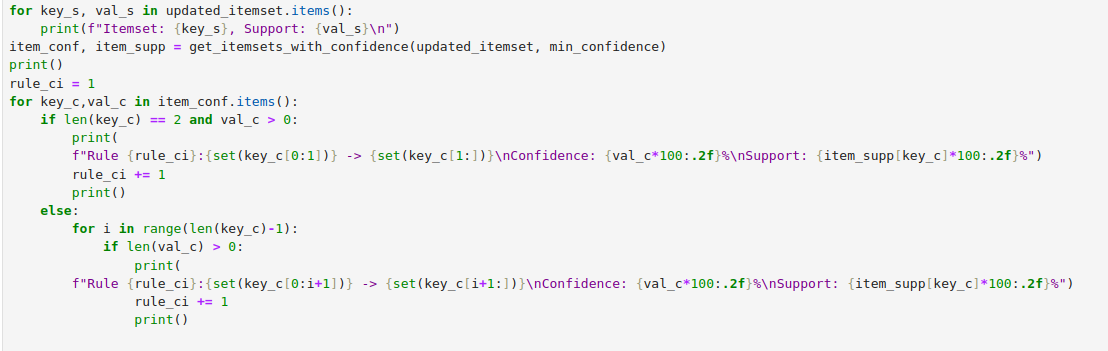
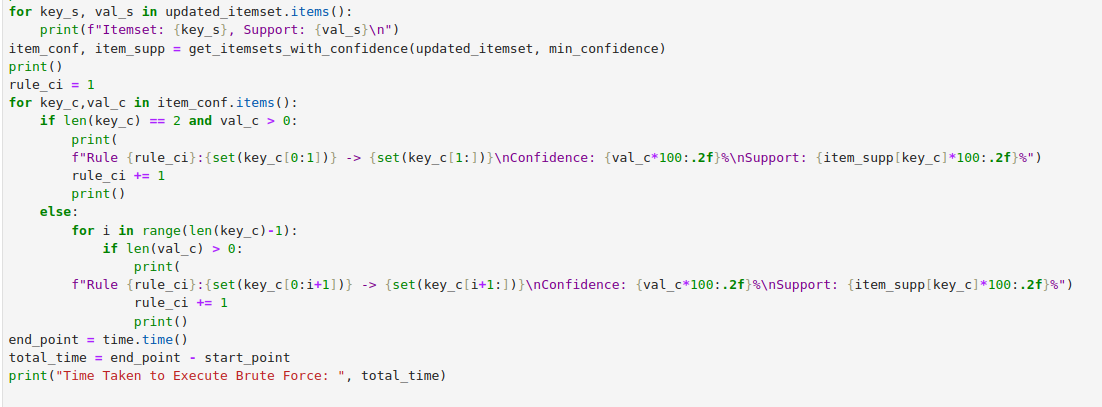
Added time comparisons

Changed region(s): [[0.0, 0.0, 0.9873, 0.9402]]

diff --git a/MidtermAlgorithm.py b/MidtermAlgorithm.py
@@ -1,5 +1,6 @@
 import os
 import sys
+import time
 from itertools import combinations # important for getting all the possible k itemsets
 import pandas as pd
 from mlxtend.frequent_patterns import apriori
@@ -99,7 +100,7 @@ min_support = float(input("Please enter the minimum support percent that you wan
 min_support /= 100
 min_confidence = float(input("Please enter the minimum confidence percent that you want (1 to 100):\n"))
 min_confidence /= 100
-
+start_point = time.time() 
 itemset_k1 = item_names.set_index("Item Name").to_dict()["Item #"]
 
 # This technique Only for the itemsets where k = 1 
@@ -147,23 +148,41 @@ for key_c,val_c in item_conf.items():
                 rule_ci += 1
                 print()
 
-
-
-
+end_point = time.time()
+total_time = end_point - start_point
+print("Time Taken to Execute Brute Force: ", total_time)
+    
 te = TransactionEncoder()
 te_ary = te.fit(item_k).transform(item_k)
 dataframe = pd.DataFrame(te_ary, columns=te.columns_)
+apriori_start_point = time.time()
 checking_apriori = apriori(dataframe, min_support=min_support, use_colnames=True)
 print()
 print("Apriori Library")
 print(checking_apriori)
-print()
-checking_fpgrowth = fpgrowth(dataframe, min_support=min_support, use_colnames=True)
-print("FP Tree Library")
-print(checking_fpgrowth)
 if len(checking_apriori.index) > 0:
-    ar = association_rules(checking_apriori, metric='confidence', min_threshold=min_confidence)
+    ar_ap = association_rules(checking_apriori, metric='confidence', min_threshold=min_confidence)
     print()
-    print("Association Rules Library")
-    ar = ar[['antecedents', 'consequents', 'support', 'confidence']]
-    print(ar)
+    print("Apriori Association Rules Library")
+    ar_ap = ar_ap[['antecedents', 'consequents', 'support', 'confidence']]
+    print(ar_ap)
+    print()
+apriori_end_point = time.time()
+total_apriori_time = apriori_end_point - apriori_start_point
+print("Time taken to execute Apriori: ", total_apriori_time)
+print()
+fp_growth_start_point = time.time()
+checking_fpgrowth = fpgrowth(dataframe, min_support=min_support, use_colnames=True)
+print("FP Growth Library")
+print(checking_fpgrowth)
+if len(checking_fpgrowth.index) > 0:
+    ar_fp = association_rules(checking_fpgrowth, metric='confidence', min_threshold=min_confidence)
+    print()
+    print("FP Growth Association Rules Library")
+    ar_fp = ar_fp[['antecedents', 'consequents', 'support', 'confidence']]
+    print(ar_fp)
+    print()    
+fp_growth_end_point = time.time()
+total_fp_time = fp_growth_end_point - fp_growth_start_point
+print("Time taken to execute FP Growth: ", total_fp_time)
+print()
